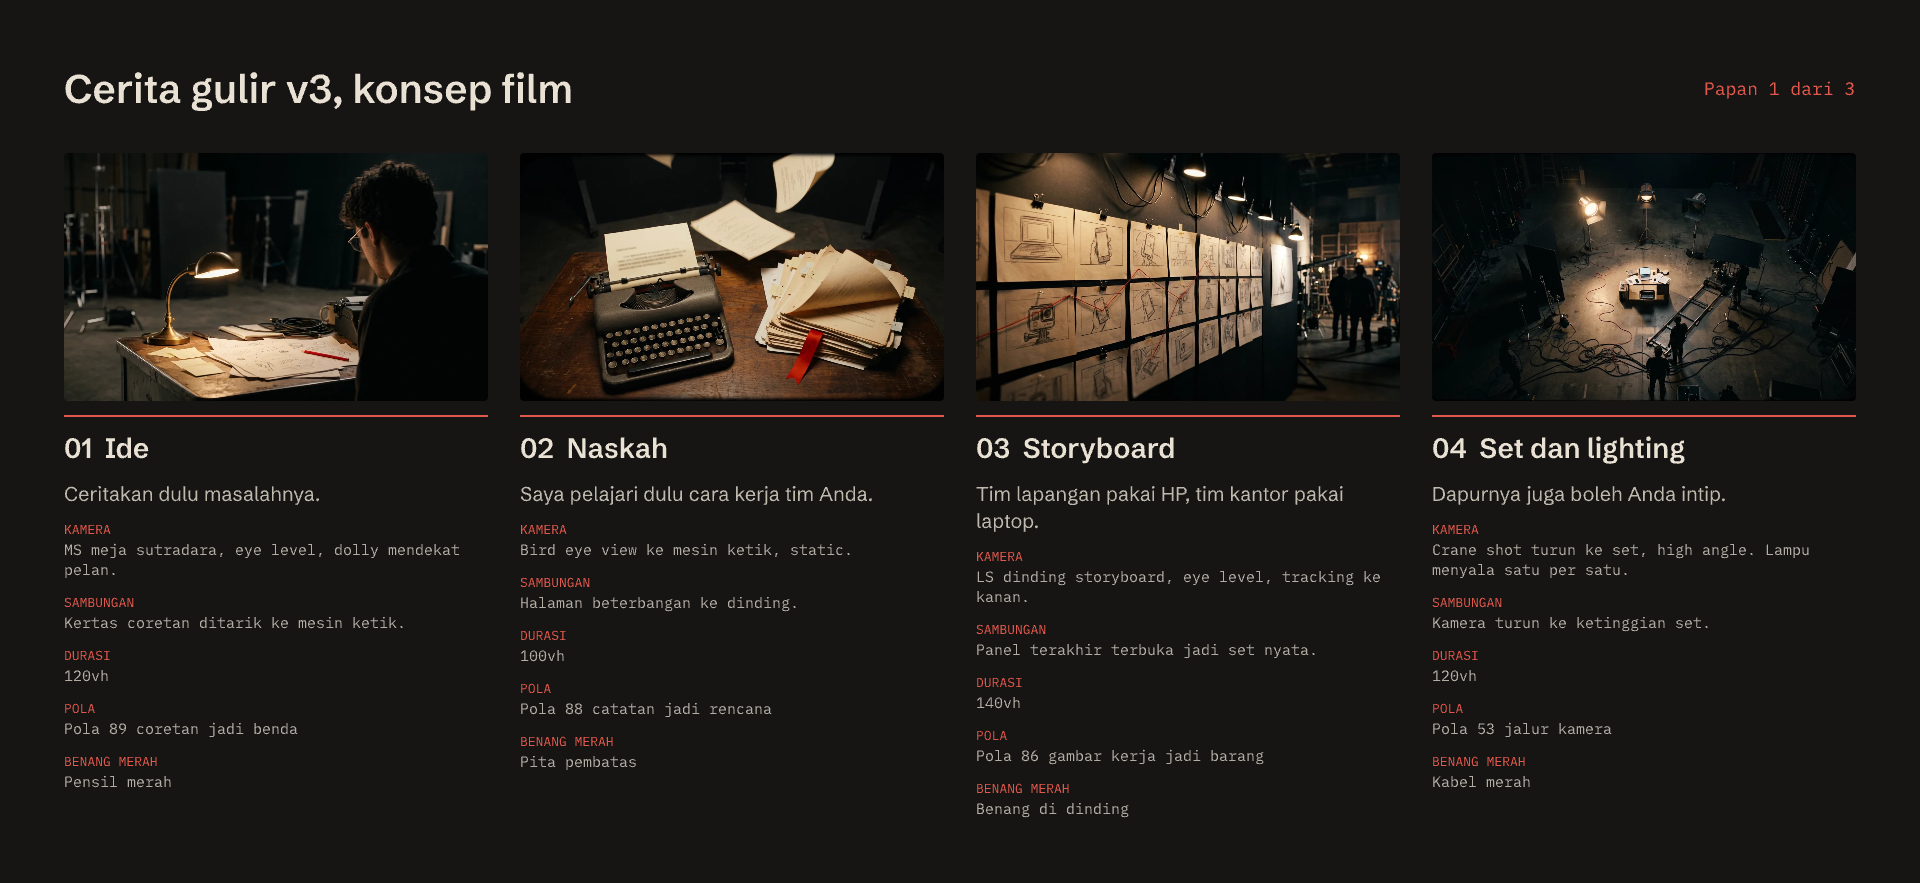
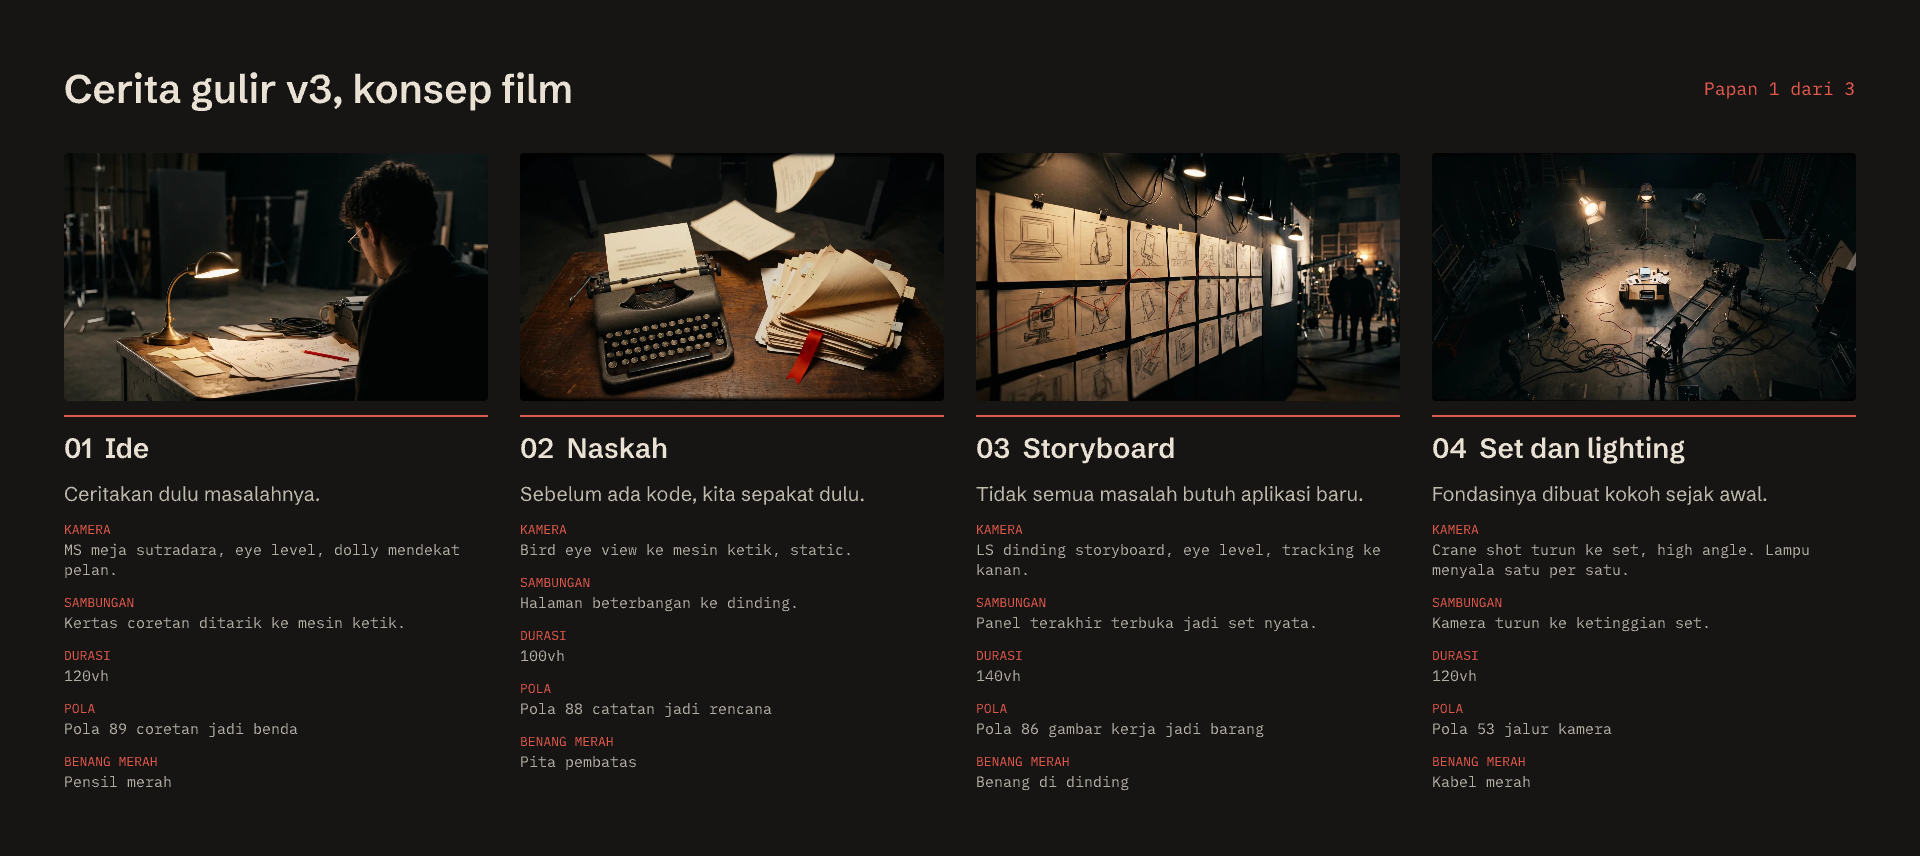
docs: pilihan judul putaran 5 untuk beat 2, 3, 4, 7, 9, 10

diff --git a/desain/cerita-v3/animatic/naskah.js b/desain/cerita-v3/animatic/naskah.js
@@ -13,15 +13,15 @@ export const BEAT = [
     kamera: { dari: { x: 0.45, y: 0.6, s: 1.0 }, ke: { x: 0.42, y: 0.72, s: 1.35 } },
     hp: 0.62, sambung: { jenis: "zoom", ke: { x: 0.38, y: 0.78, s: 2.4 } } },
   { no: 2, gambar: "02-naskah", judul: "Naskah", vh: 100,
-    teks: "Saya pelajari dulu cara kerja tim Anda.",
+    teks: "Sebelum ada kode, kita sepakat dulu.",
     kamera: { dari: { x: 0.4, y: 0.55, s: 1.25 }, ke: { x: 0.45, y: 0.4, s: 1.05 } },
     hp: 0.4, sambung: { jenis: "naik" } },
   { no: 3, gambar: "03-storyboard", judul: "Storyboard", vh: 140,
-    teks: "Tim lapangan pakai HP, tim kantor pakai laptop.",
+    teks: "Tidak semua masalah butuh aplikasi baru.",
     kamera: { dari: { x: 0.12, y: 0.45, s: 1.4 }, ke: { x: 0.62, y: 0.45, s: 1.15 } },
     hp: 0.3, sambung: { jenis: "portal", kotak: [0.7, 0.36, 0.06, 0.16] } },
   { no: 4, gambar: "04-set", judul: "Set dan lighting", vh: 120,
-    teks: "Dapurnya juga boleh Anda intip.",
+    teks: "Fondasinya dibuat kokoh sejak awal.",
     kamera: { dari: { x: 0.5, y: 0.3, s: 1.3 }, ke: { x: 0.45, y: 0.55, s: 1.6 } },
     hp: 0.46, lampu: true, sambung: { jenis: "naik" } },
   { no: 5, gambar: "05-syuting", judul: "Syuting", vh: 120,
@@ -33,7 +33,7 @@ export const BEAT = [
     kamera: { dari: { x: 0.5, y: 0.5, s: 1.0 }, ke: { x: 0.42, y: 0.38, s: 1.55 } },
     hp: 0.5, sambung: { jenis: "zoom", ke: { x: 0.42, y: 0.36, s: 3 } } },
   { no: 7, gambar: "07-grading", judul: "Color grading", vh: 100,
-    teks: "Lalu dirapikan sampai enak dipakai.",
+    teks: "Dirapikan sampai tim Anda betah memakainya.",
     kamera: { dari: { x: 0.55, y: 0.4, s: 1.35 }, ke: { x: 0.55, y: 0.45, s: 1.1 } },
     hp: 0.55, sibak: true, sambung: { jenis: "mundur" } },
   { no: 8, gambar: "08-screening", judul: "Test screening", vh: 120,
@@ -41,11 +41,11 @@ export const BEAT = [
     kamera: { dari: { x: 0.5, y: 0.6, s: 1.0 }, ke: { x: 0.55, y: 0.4, s: 1.45 } },
     hp: 0.55, tersendat: 0.5, sambung: { jenis: "zoom", ke: { x: 0.56, y: 0.36, s: 3.2 } } },
   { no: 9, gambar: "09-segel", judul: "Segel dan duplikasi", vh: 120,
-    teks: "Tidak semua orang perlu lihat semua data. Usaha tumbuh, sistemnya ikut tumbuh.",
+    teks: "Data pelanggan hanya bisa dibuka orang yang Anda izinkan. Saat usaha membesar, sistemnya tidak perlu diganti.",
     kamera: { dari: { x: 0.62, y: 0.55, s: 1.9 }, ke: { x: 0.5, y: 0.5, s: 1.0 } },
     hp: 0.72, sambung: { jenis: "mundur" } },
   { no: 10, gambar: "10-rilis", judul: "Rilis", vh: 180,
-    teks: "Sampai akhirnya dipakai tiap hari. Sepuluh di antaranya ada di rak ini.",
+    teks: "Sekarang sudah dipakai tiap hari. Sepuluh di antaranya ada di rak ini. Ambil satu, lihat ceritanya.",
     kamera: { dari: { x: 0.5, y: 0.8, s: 1.3 }, ke: { x: 0.5, y: 0.42, s: 1.2 } },
     hp: 0.5, sambung: { jenis: "tirai", ke: { x: 0.5, y: 0.42, s: 4 } } },
 ];

diff --git a/desain/cerita-v3/naskah-teks.md b/desain/cerita-v3/naskah-teks.md
@@ -22,7 +22,7 @@ Sapaan "Anda" (keputusan Farrez 4 Nov 2026). Pola kalimat dari riset `riset-teks
 teknis (requirement, server, database, testnet) dibuang, karena pembaca utamanya bukan developer.
 Baris **[konfirmasi]** memuat klaim yang hanya Farrez tahu benar tidaknya, dan belum dipasang.
 
-## Judul dan isi per beat
+## Judul dan isi per beat (putaran 4; beat 2, 3, 4, 7, 9, 10 diganti putaran 5 di bawah)
 
 | # | Yang dipikirkan pemilik usaha | Judul | Isi (bukti) |
 |---|---|---|---|
@@ -41,6 +41,37 @@ Baris **[konfirmasi]** memuat klaim yang hanya Farrez tahu benar tidaknya, dan b
 Kolom "yang dipikirkan" adalah dugaan dari pola kecemasan klien di riset (proyek molor, revisi
 bolak-balik, vendor menghilang, error saat dipakai, data bocor); belum diuji ke pemilik usaha.
 Kolom itu tidak tampil di halaman.
+
+## Putaran 5: pilihan untuk beat yang ditandai Farrez
+
+Masukan Farrez atas putaran 4: beat 2 terdengar seperti belum tahu apa-apa, beat 3 memukul rata,
+beat 4 terlalu eksplisit ("kenapa harus mengintip dapur kita"), beat 7 dan 9 ambigu, beat 10 kurang.
+Beat 1, 5, 6, 8 tidak ditandai dan dibiarkan. Pilihan A dipasang di animatic dan papan.
+
+| # | Pilihan A (dipasang) | Pilihan B | Pilihan C | Isi untuk A |
+|---|---|---|---|---|
+| 2 | Sebelum ada kode, kita sepakat dulu. | Semua dimulai dari rencana yang Anda setujui. | Biar hasilnya sesuai bayangan Anda. | Keluhan tadi saya rangkum jadi daftar yang jelas: apa yang harus bisa dilakukan sistemnya dan siapa yang memakainya. Anda baca dan setujui dulu. **[konfirmasi]** |
+| 3 | Tidak semua masalah butuh aplikasi baru. | Bentuknya dipilih sesuai masalahnya. | Kadang cukup dashboard, kadang perlu aplikasi. | Kadang cukup dashboard di HP, kadang sistem kantor di laptop, kadang alur dari iklan sampai chat WhatsApp. Ada juga yang memang butuh aplikasi sendiri, seperti YiheeCam untuk kamera aksi. |
+| 4 | Fondasinya dibuat kokoh sejak awal. | Rapi sampai ke bagian yang tidak kelihatan. | Yang tidak terlihat pun tertata. | Sembilan dari sepuluh proyek di rak punya halaman arsitektur, kalau Anda atau tim IT ingin tahu cara kerjanya. |
+| 7 | Dirapikan sampai tim Anda betah memakainya. | Enak dipakai, bukan cuma bisa dipakai. | Dipoles sampai tidak perlu diajari dua kali. | **[konfirmasi]** satu contoh perbaikan setelah masukan pengguna. |
+| 9a | Data pelanggan hanya bisa dibuka orang yang Anda izinkan. | Data penting tetap di tangan yang berhak. | | Di Jeda, psikolog cuma bisa membaca catatan yang memang dibagikan kliennya. Pohon keluarga di AkarKita hanya bisa dibuka lewat undangan. |
+| 9b | Saat usaha membesar, sistemnya tidak perlu diganti. | Usaha tumbuh, sistemnya sanggup mengikuti. | | ERP di software house tempat saya bekerja dipakai beberapa klien sekaligus, dari distribusi dan servis, asuransi kesehatan, sampai payroll perkebunan. |
+| 10 | Sekarang sudah dipakai tiap hari. | Dan akhirnya, dipakai tiap hari. | Selesai dibuat itu baru setengah jalan. Sisanya: dipakai tiap hari. | Sepuluh di antaranya ada di rak ini. Ambil satu, lihat ceritanya. |
+
+Alasan pilihan A:
+- 2: "sepakat dulu" diucapkan orang saat rapat dengan vendor, dan langsung menjawab takut hasilnya
+  beda. Tidak mengesankan belum tahu apa-apa, karena yang ditonjolkan kesepakatannya.
+- 3: tidak memukul rata. Terdengar jujur, seperti saran orang yang tidak sedang menjual aplikasi,
+  dan isinya tetap menyebut bahwa ada yang memang butuh aplikasi.
+- 4: fondasi rumah dan ruko dipahami semua pemilik usaha. Halaman arsitektur cukup ditawarkan, bukan
+  disuruh diintip.
+- 7: "betah" kata sehari-hari untuk sesuatu yang enak dipakai lama, dan menunjuk siapa yang
+  diuntungkan (tim Anda).
+- 9: dua kalimat dipisah dan masing-masing menyebut benda yang jelas (data pelanggan, usaha membesar).
+- 10: menutup dengan ajakan ke rak, yang memang bisa diklik di halaman.
+
+Catatan klaim: 9a adalah janji umum; buktinya (Jeda, AkarKita) menunjukkan akses dibatasi, bukan
+"data pelanggan" secara harfiah. 4 bergantung pada halaman arsitektur yang sudah tayang.
 
 ## Perbaikan dari masukan Farrez (putaran 3 ke 4)
 

diff --git a/desain/cerita-v3/storyboard/papan.md b/desain/cerita-v3/storyboard/papan.md
@@ -18,15 +18,15 @@ muncul di sisi kiri (desktop) atau bawah (HP).
 | # | Beat | Durasi desktop | Pola bank | Benang merah | Teks bab (Anda), lihat naskah-teks.md | Status teks |
 |---|---|---|---|---|---|---|
 | 1 | Ide | 120vh | 89 coretan jadi benda | pensil merah | Ceritakan dulu masalahnya. | ada (bab demo) |
-| 2 | Naskah | 100vh | 88 catatan jadi rencana | pita pembatas | Saya pelajari dulu cara kerja tim Anda. | draf, perlu bukti |
-| 3 | Storyboard | 140vh | 86 gambar kerja jadi barang | benang di dinding | Tim lapangan pakai HP, tim kantor pakai laptop. | ada (bab aransemen) |
-| 4 | Set dan lighting | 120vh | 53 camera path (crane) | kabel merah | Dapurnya juga boleh Anda intip. | ada (bab infrastruktur) |
+| 2 | Naskah | 100vh | 88 catatan jadi rencana | pita pembatas | Sebelum ada kode, kita sepakat dulu. | draf, perlu bukti |
+| 3 | Storyboard | 140vh | 86 gambar kerja jadi barang | benang di dinding | Tidak semua masalah butuh aplikasi baru. | ada (bab aransemen) |
+| 4 | Set dan lighting | 120vh | 53 camera path (crane) | kabel merah | Fondasinya dibuat kokoh sejak awal. | ada (bab infrastruktur) |
 | 5 | Syuting | 120vh | 55 objek persisten, 33 FLIP ke monitor | lampu tally | Lalu saya bangun, sedikit demi sedikit. | draf, perlu bukti |
 | 6 | Editing | 120vh | 18 timeline panggung sticky | playhead | Progresnya selalu bisa Anda cek. | ada (bab transparansi) |
-| 7 | Grading | 100vh | 01 sibak, 57 butir dan distorsi | cincin grading | Lalu dirapikan sampai enak dipakai. | draf, perlu bukti |
+| 7 | Grading | 100vh | 01 sibak, 57 butir dan distorsi | cincin grading | Dirapikan sampai tim Anda betah memakainya. | draf, perlu bukti |
 | 8 | Test screening | 120vh | 36 portal zoom-through | lampu merah | Sistem yang dipakai tiap hari tidak boleh rewel. | ada (bab keandalan) |
-| 9 | Segel dan duplikasi | 120vh | 56 instanced field | segel lilin | Tidak semua orang perlu lihat semua data. Usaha tumbuh, sistemnya ikut tumbuh. | ada (bab keamanan, skala) |
-| 10 | Rilis | 180vh | 40 traveling hero object, 36 portal | tirai rak | Sampai akhirnya dipakai tiap hari. Sepuluh di antaranya ada di rak ini. | ada (bab rak) |
+| 9 | Segel dan duplikasi | 120vh | 56 instanced field | segel lilin | Data pelanggan hanya bisa dibuka orang yang Anda izinkan. Saat usaha membesar, sistemnya tidak perlu diganti. | ada (bab keamanan, skala) |
+| 10 | Rilis | 180vh | 40 traveling hero object, 36 portal | tirai rak | Sekarang sudah dipakai tiap hari. Sepuluh di antaranya ada di rak ini. Ambil satu, lihat ceritanya. | ada (bab rak) |
 
 Anti-resep yang dihindari: A5 (diorama, fly-through, dan rack focus sekaligus). DOF hanya dipakai
 di beat makro (1, 9), bukan saat kamera terbang.
